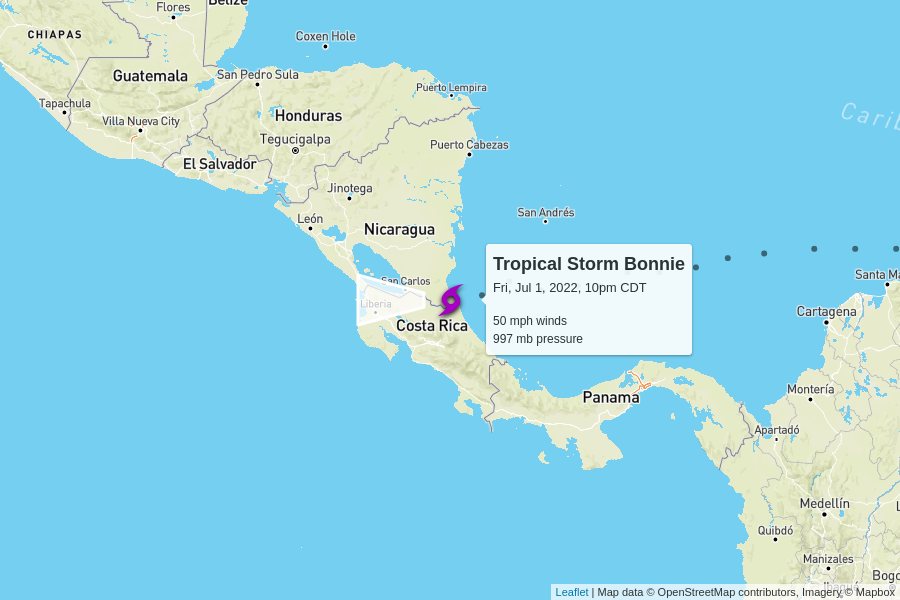
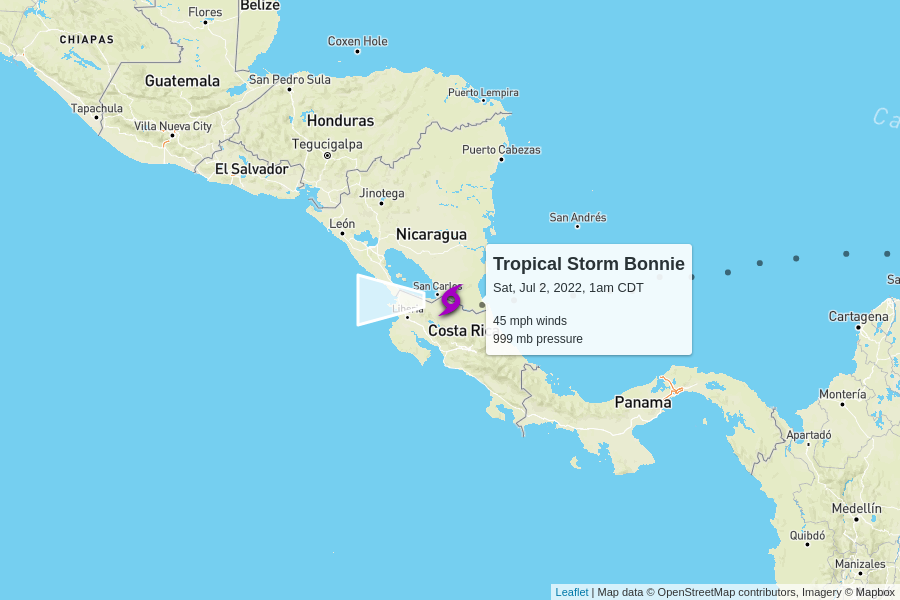
automatic update

diff --git a/docs/index.html b/docs/index.html
@@ -100,7 +100,7 @@
         <td colspan="6" class="storm category-0" >
           <h2>
             Tropical Storm Bonnie
-            <p class="updated">last updated <span data-time>2022-07-02T03:00:00.000Z</span></p>
+            <p class="updated">last updated <span data-time>2022-07-02T06:00:00.000Z</span></p>
           </h2>
         </td>
       </tr>
@@ -115,8 +115,8 @@
       </tr>
       <tr>
         <td class="spacer"></td>
-        <td>50 mph</td>
-        <td>997 mb</td>
+        <td>45 mph</td>
+        <td>999 mb</td>
         <td>
           16 mph to the west
           <br/>
